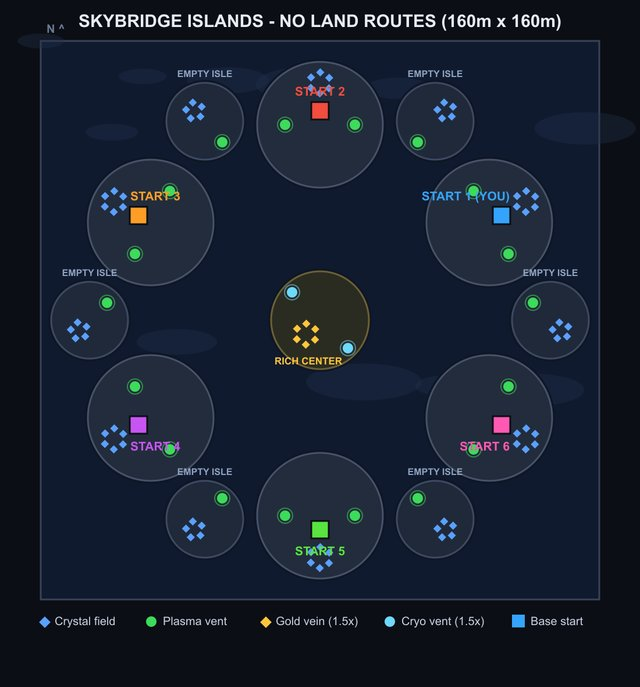
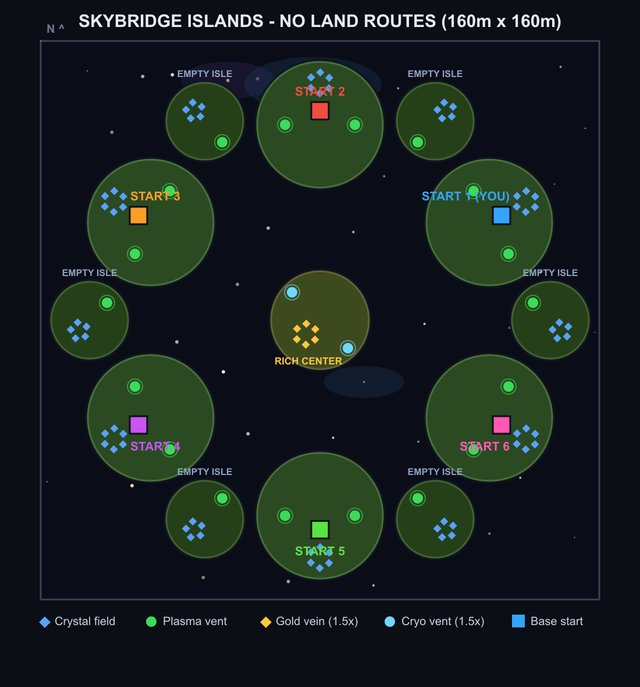
Skybridge playtest fixes: camera always opens over your own base (single player included, not just MP), selecting a transport shows a CARGO panel with one portrait per rider plus empty frames for free slots, and the island map is rethemed - deep-space starfield void (space_ceiling texture, star glin

diff --git a/src/rts/islandTerrain.ts b/src/rts/islandTerrain.ts
@@ -5,13 +5,14 @@ import type { IslandZone } from './maps'
 import { setClassicTerrainVisible } from './terrain'
 
 // ---------------------------------------------------------------------------
-// Island-map terrain: hides the classic battlefield and paints a sky "floor"
-// with floating rock islands on top. Everything stays paper-thin (the whole
-// stack lives between y 0.02 and 0.17) because fog-of-war tiles sit at ~0.18
-// and gameplay assumes a flat field.
+// Island-map terrain: hides the classic battlefield and paints a deep-space
+// "floor" with grassy floating islands on top. Everything stays paper-thin
+// (the whole stack lives between y 0.02 and 0.17) because fog-of-war tiles
+// sit at ~0.18 and gameplay assumes a flat field.
 // ---------------------------------------------------------------------------
 
-const GROUND_TEXTURE = 'assets/textures/moon_ground.png'
+const SPACE_TEXTURE = 'assets/textures/space_ceiling.png'
+const GRASS_TEXTURE = 'assets/textures/grass_ground.png'
 
 const entities: Entity[] = []
 
@@ -33,8 +34,8 @@ export function buildIslandTerrain(islands: IslandZone[]): void {
   setClassicTerrainVisible(false)
   seed = 991177
 
-  createSkyFloor()
-  createCloudLayer(islands)
+  createSpaceFloor()
+  createStarLayer(islands)
   for (const island of islands) createIsland(island)
 }
 
@@ -45,45 +46,37 @@ export function clearIslandTerrain(): void {
   setClassicTerrainVisible(true)
 }
 
-/** The void: a bright sky sheet covering the whole map under the islands. */
-function createSkyFloor(): void {
-  const sky = spawn()
-  Transform.create(sky, {
-    position: Vector3.create(SCENE.center, 0.02, SCENE.center),
-    rotation: Quaternion.fromEulerDegrees(90, 0, 0),
-    scale: Vector3.create(SCENE.size, SCENE.size, 1)
-  })
-  MeshRenderer.setPlane(sky)
-  Material.setPbrMaterial(sky, {
-    albedoColor: Color4.create(0.36, 0.58, 0.85, 1),
-    emissiveColor: Color4.create(0.22, 0.38, 0.6, 1),
-    emissiveIntensity: 0.55,
-    metallic: 0,
-    roughness: 1,
-    specularIntensity: 0,
-    castShadows: false
-  })
-
-  // A softer haze ring toward the middle so the sheet doesn't read as flat paint.
-  const haze = spawn()
-  Transform.create(haze, {
-    position: Vector3.create(SCENE.center, 0.035, SCENE.center),
-    scale: Vector3.create(SCENE.size * 0.7, 0.004, SCENE.size * 0.7)
-  })
-  MeshRenderer.setCylinder(haze)
-  Material.setPbrMaterial(haze, {
-    albedoColor: Color4.create(0.5, 0.7, 0.92, 1),
-    emissiveColor: Color4.create(0.32, 0.48, 0.68, 1),
-    emissiveIntensity: 0.4,
-    metallic: 0,
-    roughness: 1,
-    specularIntensity: 0,
-    castShadows: false
-  })
+/** The void: a starfield/nebula sheet covering the whole map under the islands. */
+function createSpaceFloor(): void {
+  // 2x2 grid of textured tiles so the starfield stays crisp across 160m.
+  const half = SCENE.size / 2
+  for (const ox of [0, 1]) {
+    for (const oz of [0, 1]) {
+      const tile = spawn()
+      Transform.create(tile, {
+        position: Vector3.create(half / 2 + ox * half, 0.02, half / 2 + oz * half),
+        rotation: Quaternion.fromEulerDegrees(90, 0, 0),
+        scale: Vector3.create(half, half, 1)
+      })
+      MeshRenderer.setPlane(tile)
+      Material.setPbrMaterial(tile, {
+        texture: Material.Texture.Common({ src: SPACE_TEXTURE, wrapMode: TextureWrapMode.TWM_REPEAT }),
+        // Emissive-lit so the stars glow on their own instead of needing sun.
+        emissiveTexture: Material.Texture.Common({ src: SPACE_TEXTURE, wrapMode: TextureWrapMode.TWM_REPEAT }),
+        albedoColor: Color4.create(0.55, 0.55, 0.65, 1),
+        emissiveColor: Color4.create(0.85, 0.85, 1, 1),
+        emissiveIntensity: 0.8,
+        metallic: 0,
+        roughness: 1,
+        specularIntensity: 0,
+        castShadows: false
+      })
+    }
+  }
 }
 
-/** Flat white cloud puffs drifting in the void between the islands. */
-function createCloudLayer(islands: IslandZone[]): void {
+/** Bright star glints and faint nebula wisps drifting in the void. */
+function createStarLayer(islands: IslandZone[]): void {
   const isInVoid = (x: number, z: number, clearance: number): boolean =>
     !islands.some((island) => {
       const dx = x - island.x
@@ -92,43 +85,68 @@ function createCloudLayer(islands: IslandZone[]): void {
       return dx * dx + dz * dz < reach * reach
     })
 
-  let placed = 0
+  // A few large translucent nebula wisps for color depth.
+  let wisps = 0
   let attempts = 0
-  while (placed < 34 && attempts < 260) {
+  while (wisps < 8 && attempts < 120) {
     attempts++
-    const x = 4 + random() * (SCENE.size - 8)
-    const z = 4 + random() * (SCENE.size - 8)
-    const size = 3 + random() * 7
-    if (!isInVoid(x, z, size * 0.5 + 1)) continue
+    const x = 6 + random() * (SCENE.size - 12)
+    const z = 6 + random() * (SCENE.size - 12)
+    const size = 8 + random() * 12
+    if (!isInVoid(x, z, size * 0.4)) continue
 
-    // Each puff is a cluster of 2-3 overlapping flat discs, so the shape
-    // reads as a cloud from the top-down camera instead of a perfect circle.
-    const discs = 2 + Math.floor(random() * 2)
-    for (let i = 0; i < discs; i++) {
-      const disc = spawn()
-      const discSize = size * (0.55 + random() * 0.5)
-      Transform.create(disc, {
-        position: Vector3.create(x + (random() - 0.5) * size * 0.7, 0.08 + random() * 0.06, z + (random() - 0.5) * size * 0.7),
-        scale: Vector3.create(discSize, 0.01, discSize * (0.6 + random() * 0.4))
-      })
-      MeshRenderer.setCylinder(disc)
-      Material.setPbrMaterial(disc, {
-        albedoColor: Color4.create(0.96, 0.98, 1, 1),
-        emissiveColor: Color4.create(0.6, 0.64, 0.7, 1),
-        emissiveIntensity: 0.35,
-        metallic: 0,
-        roughness: 1,
-        specularIntensity: 0,
-        castShadows: false
-      })
-    }
-    placed++
+    const wisp = spawn()
+    const violet = random() < 0.5
+    Transform.create(wisp, {
+      position: Vector3.create(x, 0.05, z),
+      scale: Vector3.create(size, 0.006, size * (0.5 + random() * 0.4))
+    })
+    MeshRenderer.setCylinder(wisp)
+    Material.setPbrMaterial(wisp, {
+      albedoColor: violet ? Color4.create(0.45, 0.3, 0.7, 0.16) : Color4.create(0.25, 0.5, 0.7, 0.16),
+      emissiveColor: violet ? Color4.create(0.5, 0.35, 0.8, 1) : Color4.create(0.3, 0.55, 0.8, 1),
+      emissiveIntensity: 0.5,
+      metallic: 0,
+      roughness: 1,
+      specularIntensity: 0,
+      castShadows: false
+    })
+    wisps++
+  }
+
+  // Bright star glints scattered through the void between the islands.
+  let stars = 0
+  attempts = 0
+  while (stars < 46 && attempts < 320) {
+    attempts++
+    const x = 3 + random() * (SCENE.size - 6)
+    const z = 3 + random() * (SCENE.size - 6)
+    if (!isInVoid(x, z, 1.5)) continue
+
+    const star = spawn()
+    const size = 0.18 + random() * 0.4
+    const warm = random() < 0.25
+    Transform.create(star, {
+      position: Vector3.create(x, 0.07, z),
+      scale: Vector3.create(size, 0.004, size)
+    })
+    MeshRenderer.setCylinder(star)
+    Material.setPbrMaterial(star, {
+      albedoColor: warm ? Color4.create(1, 0.9, 0.7, 1) : Color4.create(0.9, 0.95, 1, 1),
+      emissiveColor: warm ? Color4.create(1, 0.85, 0.6, 1) : Color4.create(0.85, 0.92, 1, 1),
+      emissiveIntensity: 2.4,
+      metallic: 0,
+      roughness: 1,
+      specularIntensity: 0,
+      castShadows: false
+    })
+    stars++
   }
 }
 
-/** One floating island: dark cliff rim ring under a moon-rock surface disc. */
+/** One floating island: earthy cliff rim ring under a grassy surface disc. */
 function createIsland(island: IslandZone): void {
-  // Cliff rim: slightly wider and darker, peeking out under the surface.
+  // Cliff rim: exposed earth peeking out under the grass.
   const rim = spawn()
   Transform.create(rim, {
     position: Vector3.create(island.x, 0.045, island.z),
@@ -136,15 +154,14 @@ function createIsland(island: IslandZone): void {
   })
   MeshRenderer.setCylinder(rim)
   Material.setPbrMaterial(rim, {
-    albedoColor: Color4.create(0.16, 0.15, 0.19, 1),
+    albedoColor: Color4.create(0.32, 0.22, 0.14, 1),
     metallic: 0,
     roughness: 1,
     specularIntensity: 0,
     castShadows: false
   })
 
-  // Surface: the same moon-rock texture as the classic map, so units and
-  // buildings sit on familiar ground.
+  // Surface: lush grass so the isles read as living land against the void.
   const surface = spawn()
   Transform.create(surface, {
     position: Vector3.create(island.x, 0.06, island.z),
@@ -152,15 +169,15 @@ function createIsland(island: IslandZone): void {
   })
   MeshRenderer.setCylinder(surface)
   Material.setPbrMaterial(surface, {
-    texture: Material.Texture.Common({ src: GROUND_TEXTURE, wrapMode: TextureWrapMode.TWM_REPEAT }),
-    albedoColor: Color4.create(0.9, 0.9, 0.96, 1),
+    texture: Material.Texture.Common({ src: GRASS_TEXTURE, wrapMode: TextureWrapMode.TWM_REPEAT }),
+    albedoColor: Color4.create(0.95, 1, 0.9, 1),
     metallic: 0,
     roughness: 1,
     specularIntensity: 0,
     castShadows: false
   })
 
-  // A couple of soft tone patches per island so the surface isn't uniform.
+  // A couple of soft meadow patches per island so the grass isn't uniform.
   const patches = 2 + Math.floor(random() * 2)
   for (let i = 0; i < patches; i++) {
     const patch = spawn()
@@ -173,7 +190,7 @@ function createIsland(island: IslandZone): void {
     })
     MeshRenderer.setCylinder(patch)
     Material.setPbrMaterial(patch, {
-      albedoColor: random() < 0.5 ? Color4.create(0.78, 0.78, 0.85, 1) : Color4.create(0.95, 0.93, 0.9, 1),
+      albedoColor: random() < 0.5 ? Color4.create(0.5, 0.72, 0.32, 0.55) : Color4.create(0.72, 0.82, 0.42, 0.45),
       metallic: 0,
       roughness: 1,
       specularIntensity: 0,

diff --git a/src/ui.tsx b/src/ui.tsx
@@ -655,7 +655,7 @@ function infoPanel(selected: SelectedSummary) {
         ) : null}
       </UiEntity>
 
-      {multi ? wireframeGrid(units) : selected.kind === 'forge' || selected.kind === 'airForge' ? researchQueuePanel(selected) : productionQueuePanel(selected)}
+      {multi ? wireframeGrid(units) : selected.kind === 'forge' || selected.kind === 'airForge' ? researchQueuePanel(selected) : transportCargoPanel() ?? productionQueuePanel(selected)}
     </UiEntity>
   )
 }
@@ -767,6 +767,30 @@ function wireframeGrid(units: ReturnType<typeof getSelectedUnitsInfo>) {
           <Label value={`+${extra}`} fontSize={16} color={UI.text} textAlign="middle-center" />
         </UiEntity>
       ) : null}
+    </UiEntity>
+  )
+}
+
+/** Cargo hold readout for a selected transport: one portrait per rider, plus
+ * empty frames so the remaining capacity is visible at a glance. */
+function transportCargoPanel() {
+  const cargo = getSelectedTransportCargo()
+  if (!cargo) return null
+
+  const emptySlots = Math.max(0, cargo.capacity - cargo.units.length)
+  return (
+    <UiEntity uiTransform={{ flexDirection: 'column', width: 300, height: '100%', padding: { top: 30 } }}>
+      <Label value={`CARGO  ${cargo.count}/${cargo.capacity}`} fontSize={13} color={UI.dim} textAlign="middle-left" uiTransform={{ margin: { bottom: 8 } }} />
+      <UiEntity uiTransform={{ flexDirection: 'row', flexWrap: 'wrap', alignContent: 'flex-start', width: 300 }}>
+        {cargo.units.map((rider) => (
+          <UiEntity key={`cargo-${rider.id}`} uiTransform={{ width: 54, height: 54, margin: { right: 6, bottom: 6 }, padding: 2 }} uiBackground={{ color: UI.slotFrame }}>
+            <UiEntity uiTransform={{ width: '100%', height: '100%' }} uiBackground={{ textureMode: 'stretch', texture: { src: unitIcon(rider.variant) } }} />
+          </UiEntity>
+        ))}
+        {Array.from({ length: emptySlots }).map((_, index) => (
+          <UiEntity key={`cargo-empty-${index}`} uiTransform={{ width: 54, height: 54, margin: { right: 6, bottom: 6 } }} uiBackground={{ color: UI.cardSoft }} />
+        ))}
+      </UiEntity>
     </UiEntity>
   )
 }

diff --git a/src/rtsGame.ts b/src/rtsGame.ts
@@ -1295,11 +1295,9 @@ export function resetRtsGame(): void {
 
   createStartingBase()
   enableTopDownView()
-  // Multiplayer: open the camera over your own corner, wherever your seat is.
-  if (multiplayerPlan) {
-    const anchor = getTeamAnchor('player')
-    setCameraFocus(anchor.temple.x, anchor.temple.z)
-  }
+  // Open the camera over your own base, wherever your seat's anchor is on this map.
+  const startAnchor = getTeamAnchor('player')
+  setCameraFocus(startAnchor.temple.x, startAnchor.temple.z)
   setAckVoice(gameState.playerRace)
   startAmbientMusic()
 }
@@ -2317,13 +2315,27 @@ export function unloadSelectedTransport(): void {
   }
 }
 
-export type TransportCargoInfo = { count: number; capacity: number }
+export type TransportCargoInfo = {
+  count: number
+  capacity: number
+  /** One entry per rider so the HUD can draw their portraits. */
+  units: { id: string; name: string; variant: SoldierVariant | 'worker' }[]
+}
 
 /** Cargo readout for the info panel when a transport is selected. */
 export function getSelectedTransportCargo(): TransportCargoInfo | undefined {
   const selected = getSelected()
   if (!selected?.alive || selected.kind !== 'soldier' || (selected as Soldier).variant !== 'transport') return undefined
-  return { count: getCargoCount(selected as Soldier), capacity: TRANSPORT_CAPACITY }
+  const riders = getCargoUnits(selected as Soldier)
+  return {
+    count: riders.length,
+    capacity: TRANSPORT_CAPACITY,
+    units: riders.map((rider) => ({
+      id: rider.id,
+      name: rider.name,
+      variant: rider.kind === 'worker' ? 'worker' : (rider as Soldier).variant ?? 'melee'
+    }))
+  }
 }
 
 function assignWorkerToResource(worker: Worker, resource: ResourceNode, announce = true): void {

diff --git a/src/rts/minimap.tsx b/src/rts/minimap.tsx
@@ -49,9 +49,9 @@ const MINIMAP_COLORS = {
   goldMinerals: Color4.create(1, 0.8, 0.25, 1),
   cryoGas: Color4.create(0.55, 0.88, 1, 1),
   avatar: Color4.create(1, 1, 1, 1),
-  // Island maps: bright void between floating rock islands.
-  sky: Color4.create(0.16, 0.32, 0.55, 1),
-  island: Color4.create(0.32, 0.32, 0.36, 1)
+  // Island maps: deep-space void between grassy floating islands.
+  sky: Color4.create(0.05, 0.05, 0.12, 1),
+  island: Color4.create(0.24, 0.42, 0.18, 1)
 }
 
 /** World meters -> minimap pixels. */
